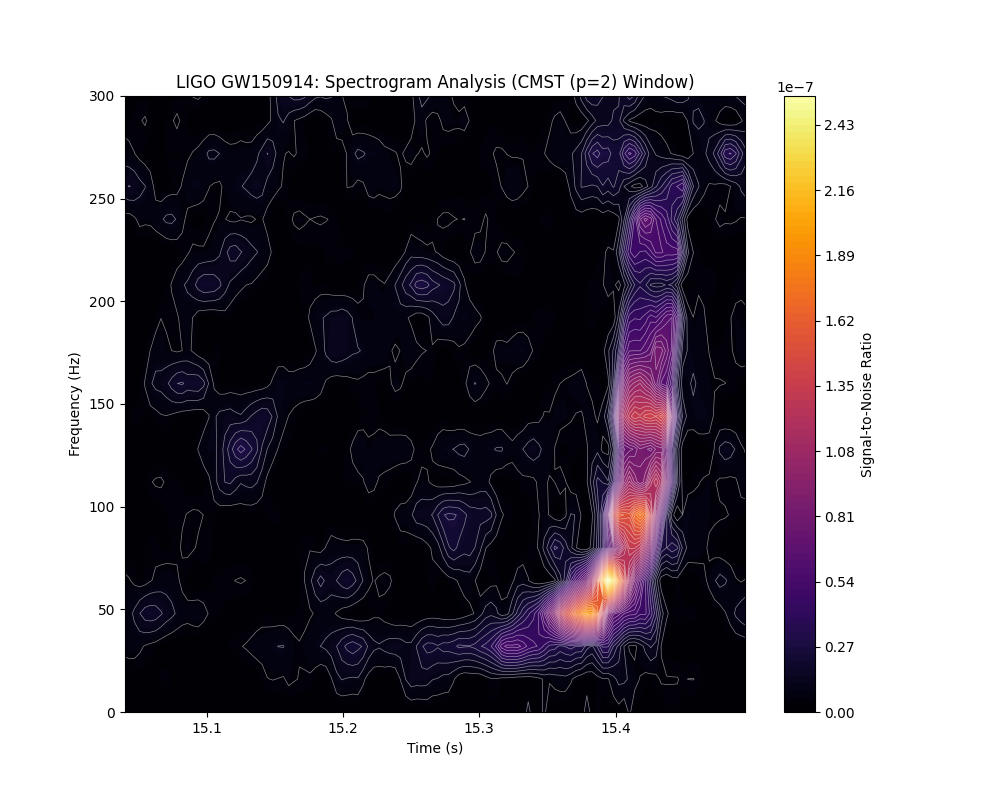
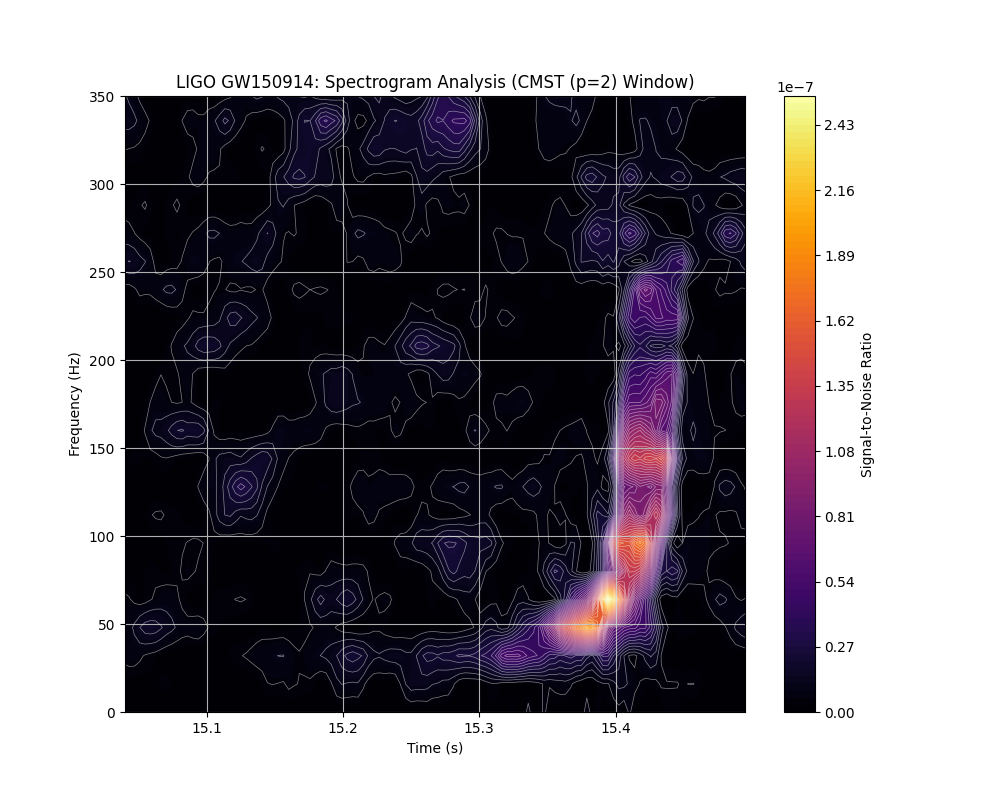
Added grid

diff --git a/examples/14_the_chirp.py b/examples/14_the_chirp.py
@@ -96,13 +96,14 @@ try:
 
     # Zoom in on the Chirp
     plt.xlim(zoom_center - 5 * zoom_width, zoom_center + 3/2 * zoom_width)
-    plt.ylim(0, 300) # The "Audible" range of the black holes
+    plt.ylim(0, 350) # The "Audible" range of the black holes
 
     plt.title(f'LIGO GW150914: Spectrogram Analysis (CMST (p=2) Window)')
     plt.ylabel('Frequency (Hz)')
     plt.xlabel('Time (s)')
     plt.grid(False) # Turn off grid to see the track clearly
     plt.colorbar(contour_filled, label='Signal-to-Noise Ratio')
+    plt.grid(True)
     
     plt.savefig("Chirp.png")
     print("Saved Chirp.png")
